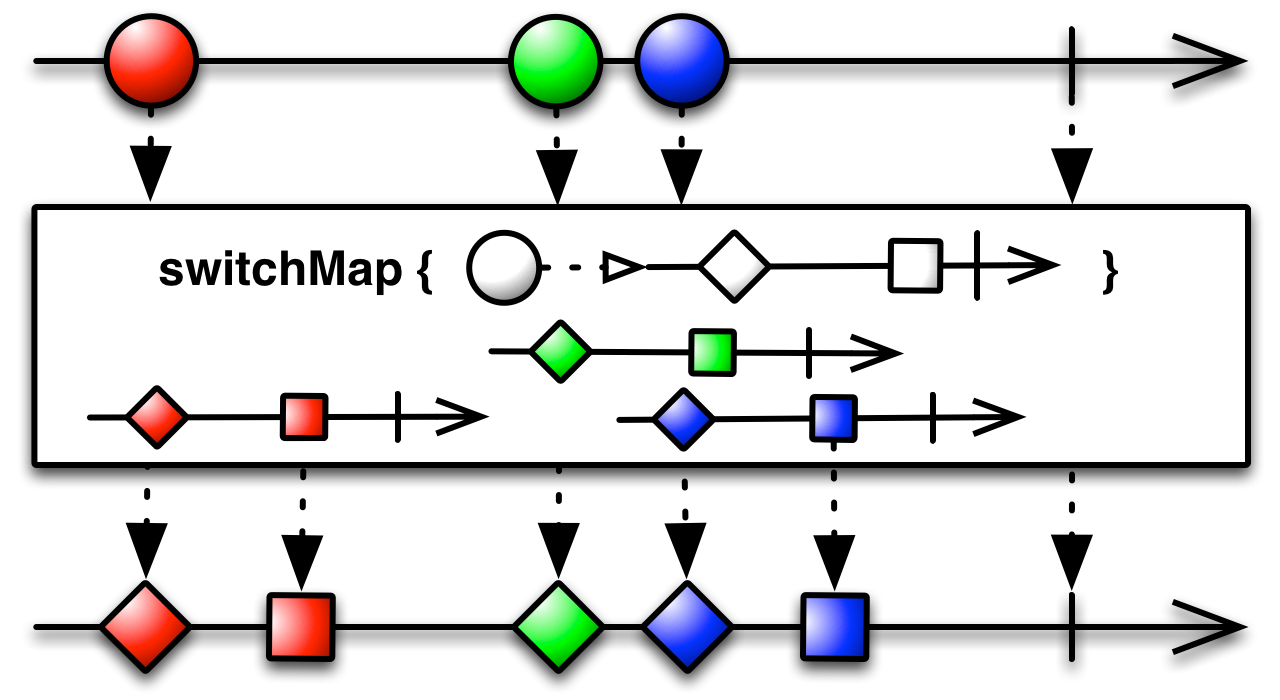
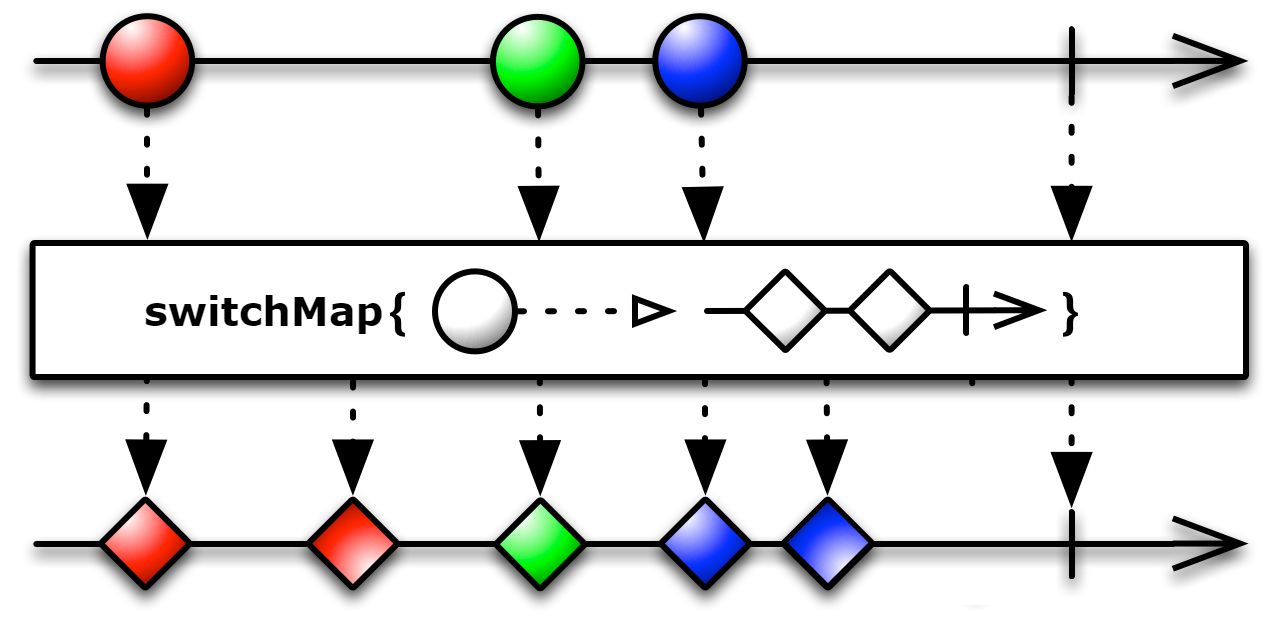
Better switchMap picture

Changed region(s): [[0.0, 0.0, 1.0, 0.9806]]

diff --git a/public/post/rxjsMap/index.html b/public/post/rxjsMap/index.html
@@ -99,15 +99,15 @@
 <p>Here are some pictures from <a href="http://reactivex.io">reactivex.io</a> that I think are quite descriptive:</p>
 
 <div class="standardBorder verticalMargins" markdown="1">
-    <img src="/images/mergeMap.png">
+    <img src="/images/mergeMap.png" alt="MergeMap">
 </div>
 
 <div class="standardBorder verticalMargins" markdown="1">
-    <img src="/images/concatMap.png">
+    <img src="/images/concatMap.png" alt="ConcatMap">
 </div>
 
 <div class="standardBorder verticalMargins" markdown="1">
-    <img src="/images/switchMap.png">
+    <img src="/images/switchMap.png" alt="SwitchMap">
 </div>
 
 <h2 id="talk-is-cheap-show-me-the-code">&ldquo;Talk is cheap. Show me the code.&rdquo;</h2>

diff --git a/content/post/rxjsMap.md b/content/post/rxjsMap.md
@@ -42,15 +42,15 @@ Operators from the third group are two step operators. First, they map outer Obs
 Here are some pictures from [reactivex.io](http://reactivex.io) that I think are quite descriptive:
 
 <div class="standardBorder verticalMargins" markdown="1">
-	<img src="/images/mergeMap.png">
+	<img src="/images/mergeMap.png" alt="MergeMap">
 </div>
 
 <div class="standardBorder verticalMargins" markdown="1">
-	<img src="/images/concatMap.png">
+	<img src="/images/concatMap.png" alt="ConcatMap">
 </div>
 
 <div class="standardBorder verticalMargins" markdown="1">
-	<img src="/images/switchMap.png">
+	<img src="/images/switchMap.png" alt="SwitchMap">
 </div>
 
 ## "Talk is cheap. Show me the code."
